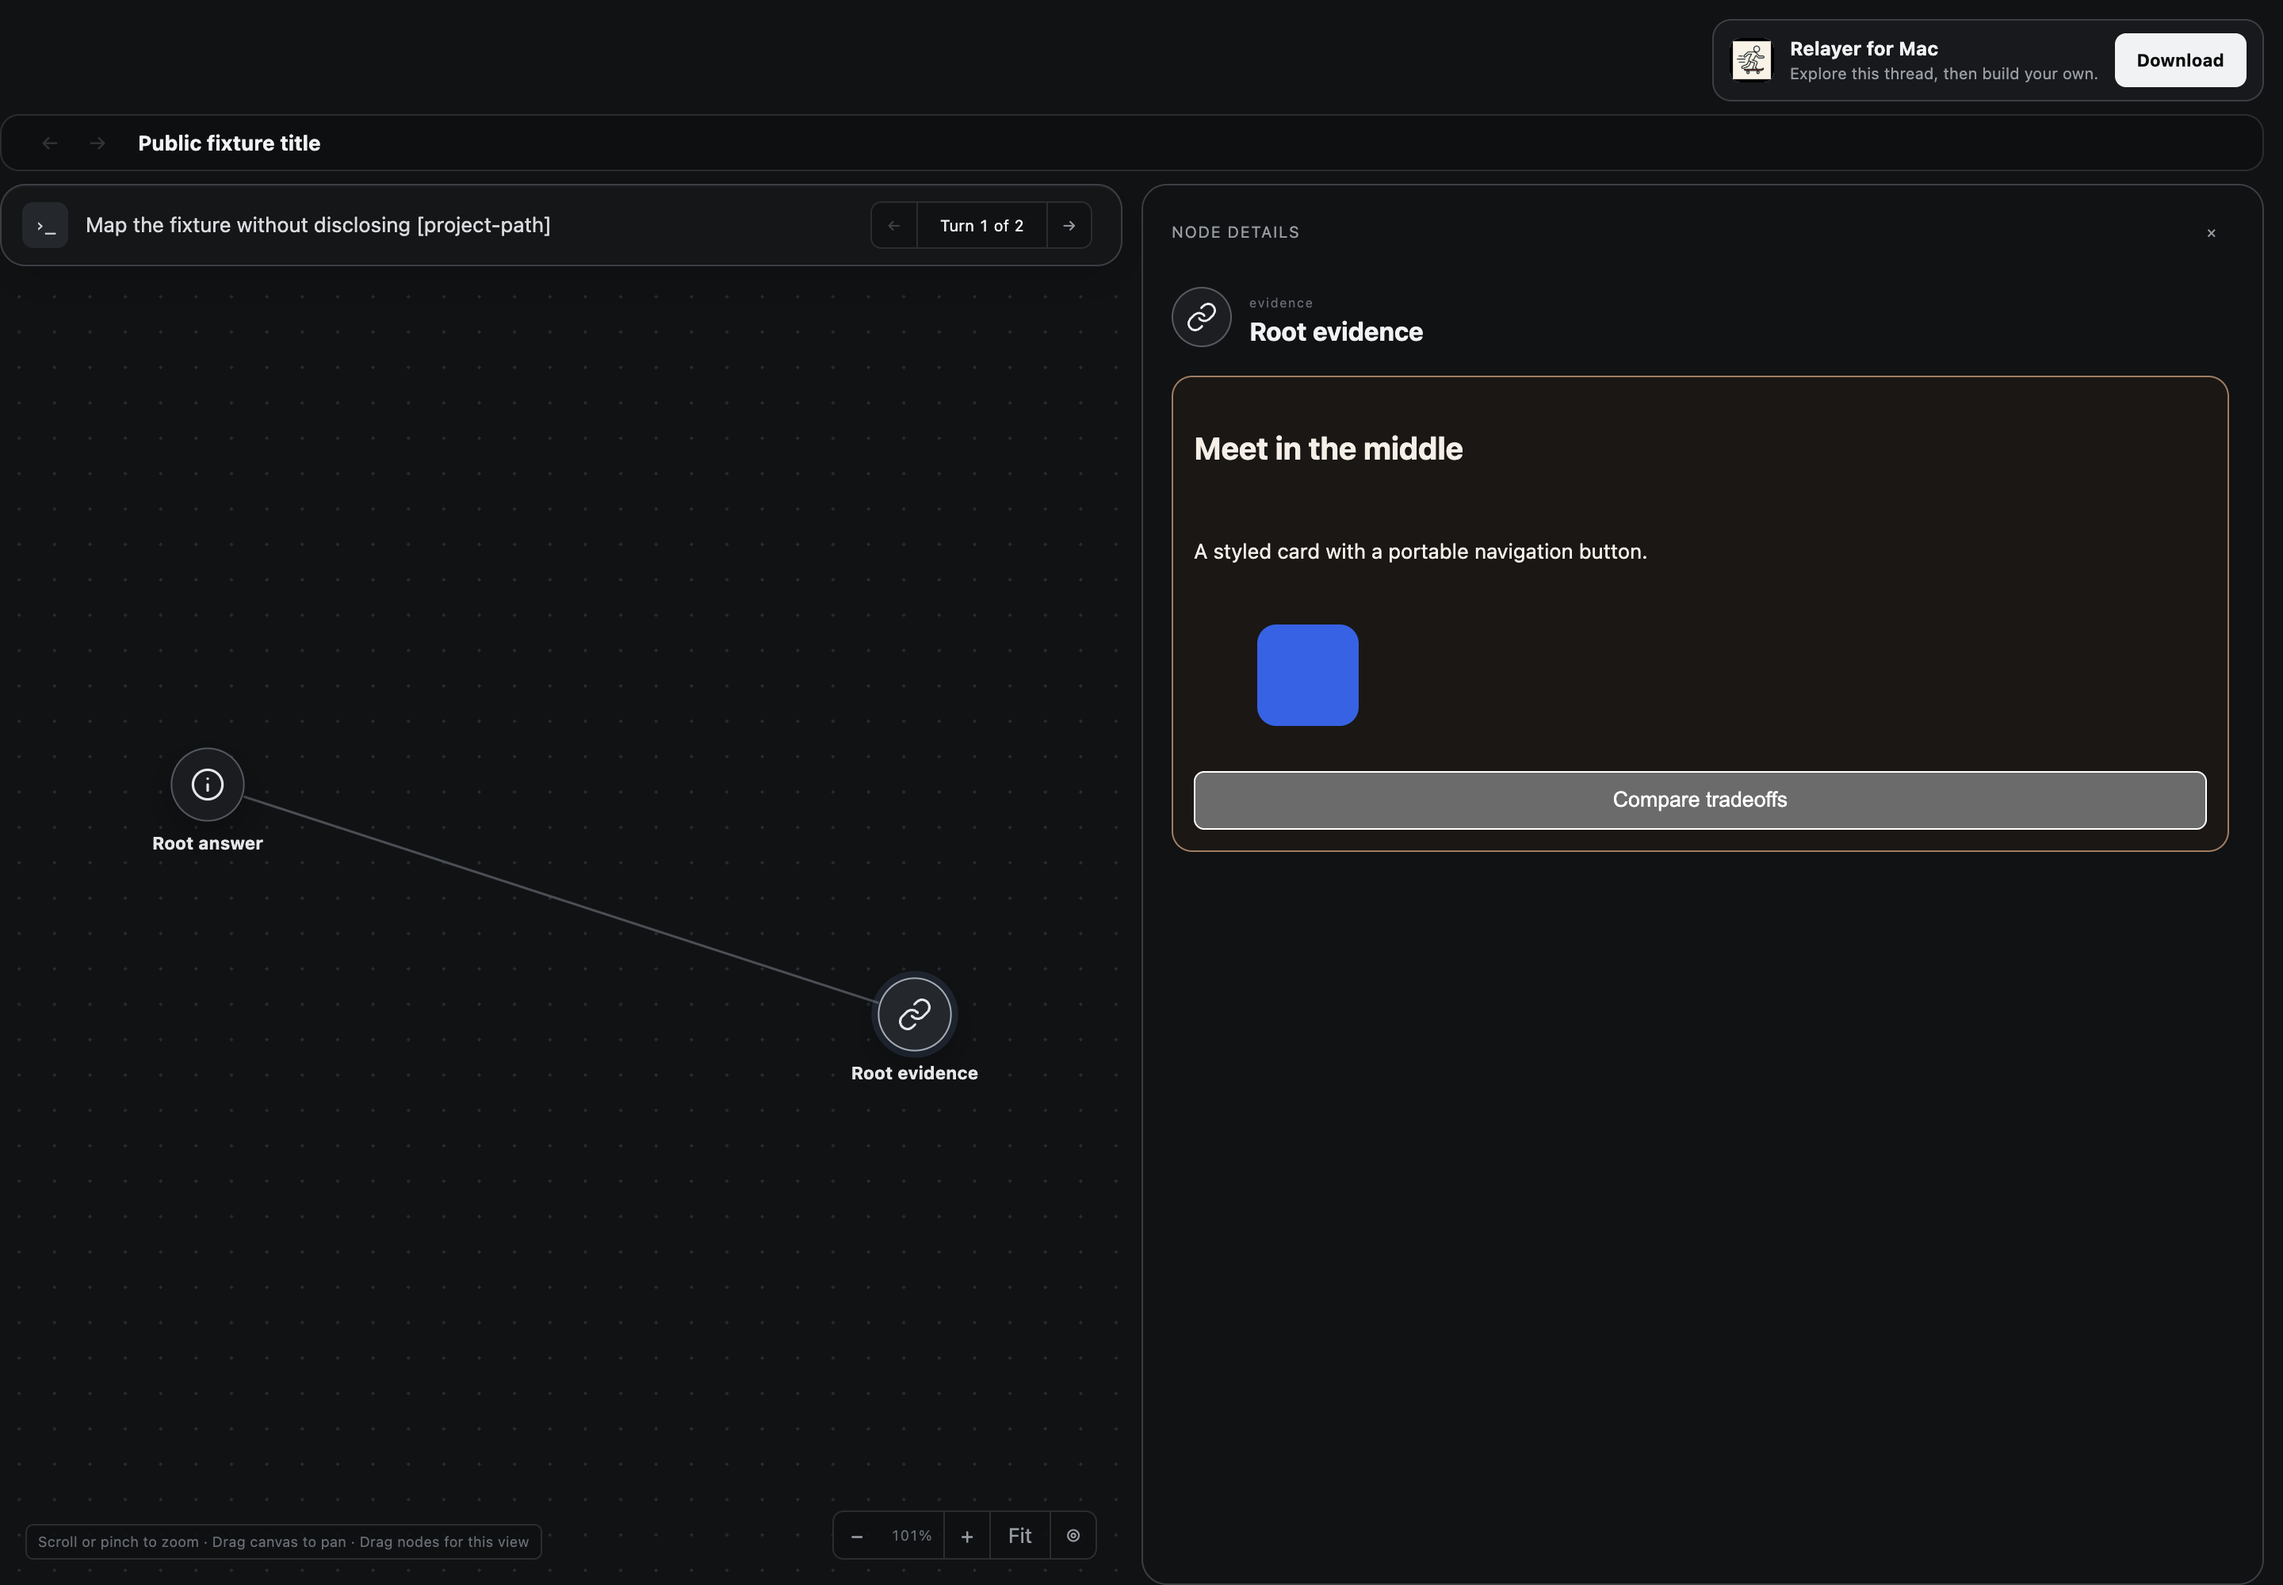
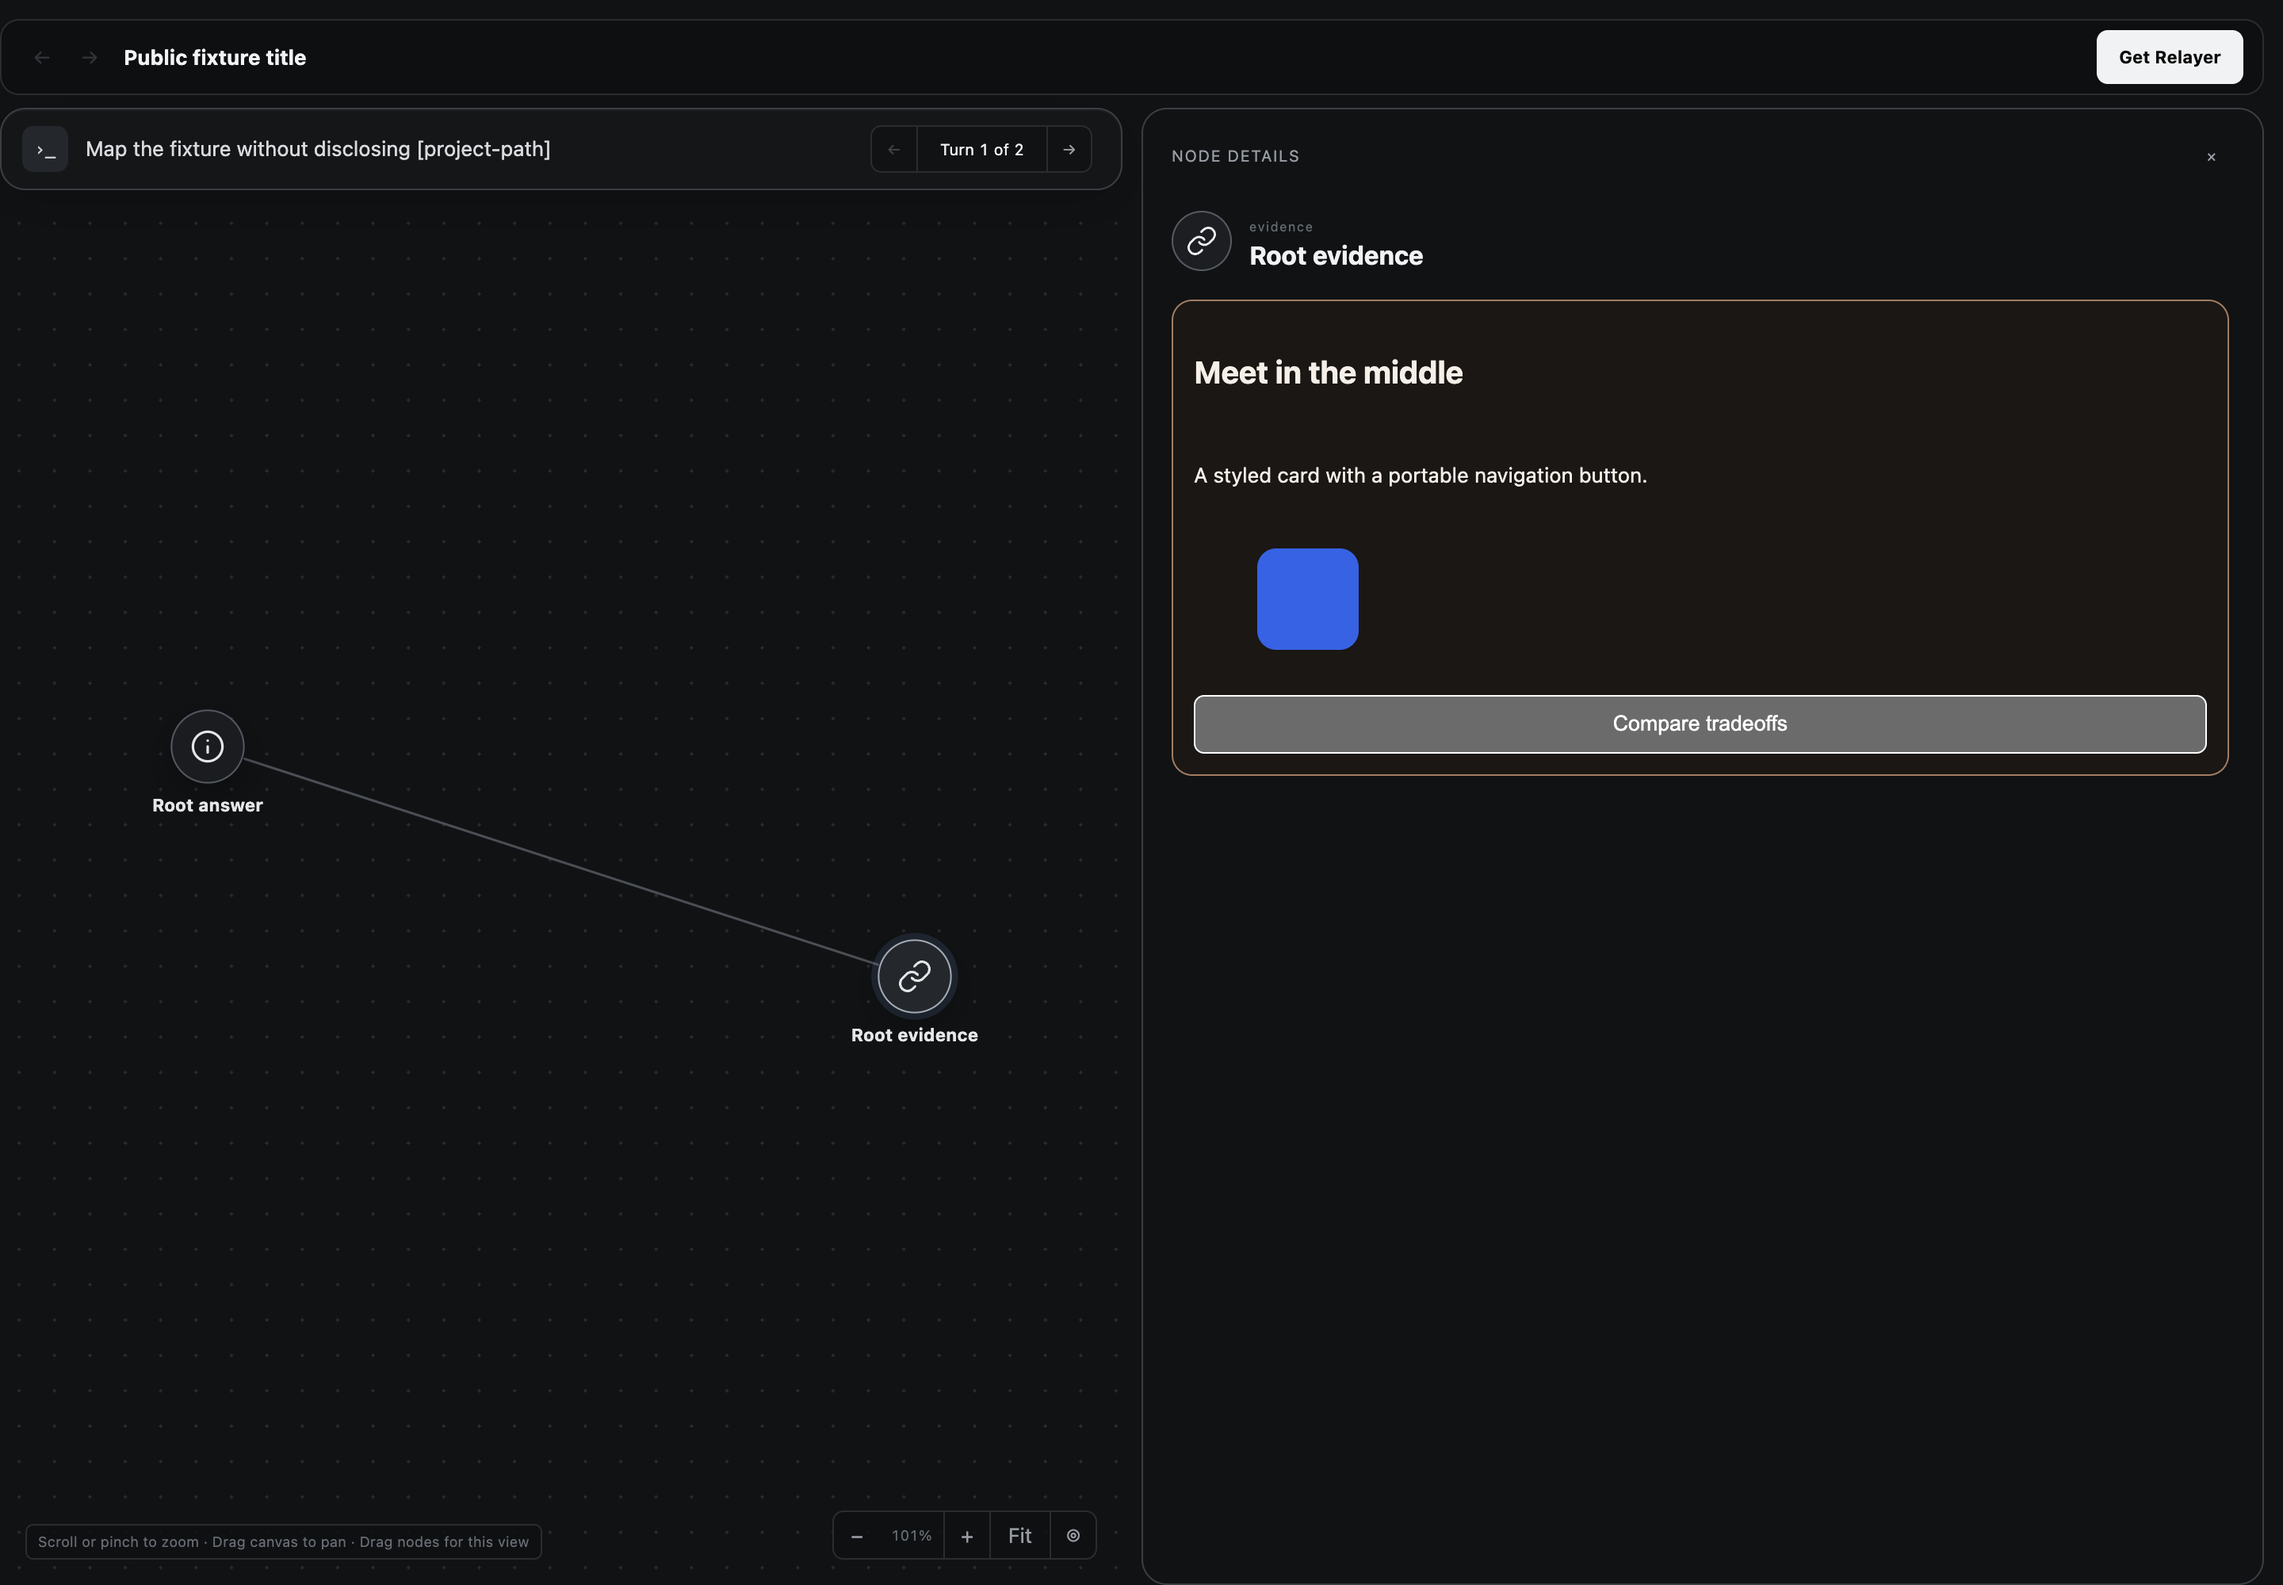
Place share install action beside title and align verification

diff --git a/docs/prd/index.html b/docs/prd/index.html
@@ -1308,8 +1308,8 @@ V1 exposes only <strong>Local checkout</strong> and <strong>New worktree</strong
 <h3>8.4 Shared thread snapshots</h3>
 <p><strong>Planned:</strong> A user can share one thread as a frozen, read-only graph. Anyone with the link can open it in a browser. Each share creates a new immutable URL.</p>
 <p>Packaged Preview and Stable releases both publish through <code>https://share.relayerlabs.ai</code>. Stable promotion reuses the exact signed Preview bytes, so the service origin does not change with promotion. Private share Preview endpoints are available only through an explicit non-packaged development override. Packaged applications ignore endpoint environment overrides and fail closed when release metadata is invalid.</p>
-<p>The page lets the production graph workspace fill the browser viewport without a separate public top bar, outer frame, or reserved footer. The compact app card is its only branding and install surface. Its rounded thread header and compact interaction card share the same column width. The public viewer does not show the desktop Environment panel. It shows turns, nodes, edges, actions, layers, and Node Details. The turn picker aligns to the interaction card. It fits up to five complete turn rows in the available viewport space before scrolling. It supports graph navigation and system theme. On mobile, the graph pans and Node Details opens. It has no sidebar, settings, onboarding, updater, or sign-in screen.</p>
-<p>The download card shows Relayer for Mac, a short pitch, and Download. It sits above Node Details and uses the product primary button style. On desktop, its bottom edge aligns with the interaction card. Its height does not add empty space between the thread header and interaction card. The install link leads to <code>app.relayerlabs.ai/desktop/login</code>.</p>
+<p>The page lets the production graph workspace fill the browser viewport without a separate public top bar, outer frame, or reserved footer. A compact Get Relayer action in the thread header is its only install surface. Its rounded thread header and compact interaction card share the same column width. The public viewer does not show the desktop Environment panel. It shows turns, nodes, edges, actions, layers, and Node Details. The turn picker aligns to the interaction card. It fits up to five complete turn rows in the available viewport space before scrolling. It supports graph navigation and system theme. On mobile, the graph pans and Node Details opens. It has no sidebar, settings, onboarding, updater, or sign-in screen.</p>
+<p>The Get Relayer action sits beside the conversation title in the same header row at desktop and mobile widths. It uses the product primary button style. It adds no separate promotional row or empty space above the content. Long titles truncate while the install action stays visible. The install link leads to <code>app.relayerlabs.ai/desktop/login</code>. The public-viewer mount test checks header ownership; public-viewer visual evidence checks the rendered layout.</p>
 <p>The thread header has a Share button beside its menu. The menu offers Share and Shared links. Imported threads cannot be shared. Only accepted records are included; pending work is excluded. A share attempt performs eligibility, quota, and size preflight before requesting a title. An ineligible or blocked thread explains the blocker immediately without collecting title input.</p>
 <p>Signed-out users see Share this thread, a read-only copy explanation, Cancel, and Sign in to share. Signed-in users skip only the sign-in step. Both flows require a share title before creating a link. The title field starts blank. Create link stays disabled for a blank or whitespace-only title.</p>
 <p>The chosen share title replaces the original title in the published snapshot, page, browser tab, and link preview. The local thread keeps its original title. The share title and project name are published unchanged. Automatic redaction still applies to conversation content. Published titles cannot be edited; changing one requires a new share.</p>

diff --git a/desktop/renderer/src/public-share-viewer/viewer.css b/desktop/renderer/src/public-share-viewer/viewer.css
@@ -22,48 +22,23 @@
 }
 
 .public-share-download-card {
-  grid-column: 2;
-  grid-row: 1;
-  display: grid;
-  grid-template-columns: minmax(0, 1fr) auto;
-  align-items: center;
-  gap: 6px 10px;
-  min-width: 0;
-  margin: 0 0 12px;
-  padding: 8px 10px;
-  border: 1px solid var(--line-strong);
-  border-radius: 12px;
-  background: var(--raised);
-}
-
-.public-share-download-copy {
-  min-width: 0;
-  display: flex;
-  align-items: center;
-  gap: 10px;
-}
-
-.public-share-download-copy img {
   flex: none;
-  border-radius: 7px;
-  background: #f7f0e5;
-}
-
-.public-share-download-copy > div {
-  min-width: 0;
+  margin-left: auto;
   display: flex;
-  flex-direction: column;
-  gap: 2px;
+  align-items: center;
 }
 
-.public-share-download-card strong {
-  font-size: 12px;
+.public-share-shell:not(.public-share-embed) .thread-header {
+  flex-wrap: nowrap;
+  min-height: 48px;
+  height: auto;
+  gap: 8px;
+  padding: 6px 12px;
 }
 
-.public-share-download-card small {
-  color: var(--muted);
-  font-size: 10px;
-  line-height: 1.35;
+.public-share-shell:not(.public-share-embed) .thread-title-group {
+  flex: 1;
+  min-width: 0;
 }
 
 .public-share-primary-action {
@@ -179,23 +154,14 @@
   font-weight: 700;
 }
 
-html[data-theme="light"] .public-share-download-card,
 html[data-theme="light"] .public-share-error {
   background: #fff;
-}
-
-@media (min-width: 1101px) {
-  .public-share-download-card {
-    z-index: 4;
-    grid-column: 2;
-    grid-row: 1 / 3;
-  }
 }
 
 @media (max-width: 1100px) {
   .public-share-shell .workspace-layout {
     grid-template-columns: minmax(0, 1fr);
-    grid-template-rows: 36px auto auto minmax(520px, 1fr);
+    grid-template-rows: auto auto minmax(520px, 1fr);
     gap: 0;
     min-width: 0;
     padding: 12px;
@@ -207,33 +173,26 @@ html[data-theme="light"] .public-share-error {
     grid-row: 1;
   }
 
-  .public-share-download-card {
-    grid-column: 1;
-    grid-row: 2;
-    margin: 8px 0 12px;
-  }
-
   .public-share-shell .interaction-banner {
     grid-column: 1;
-    grid-row: 3;
+    grid-row: 2;
     margin: 0 0 12px;
   }
 
   .public-share-shell .thread-workspace {
     grid-column: 1;
-    grid-row: 4;
+    grid-row: 3;
   }
 }
 
-/* Keep branding above the shared reading panes without occupying the divider. */
+/* Standalone branding shares the title row; reading panes start directly below. */
 @media(min-width:1101px){
- .public-share-shell .workspace-layout{grid-template-rows:auto auto auto minmax(0,1fr)}
- .public-share-shell .public-share-download-card{grid-column:1 / -1;grid-row:1;margin:0 0 8px;justify-self:end}
- .public-share-shell .thread-header{grid-column:1 / -1;grid-row:2}
- .public-share-shell .interaction-banner{grid-column:1;grid-row:3}
- .public-share-shell .graph-column{grid-column:1;grid-row:4}
- .public-share-shell .workspace-divider{grid-row:3 / 5}
- .public-share-shell .inspector{grid-column:3;grid-row:3 / 5}
+ .public-share-shell .workspace-layout{grid-template-rows:auto auto minmax(0,1fr)}
+ .public-share-shell .thread-header{grid-column:1 / -1;grid-row:1}
+ .public-share-shell .interaction-banner{grid-column:1;grid-row:2}
+ .public-share-shell .graph-column{grid-column:1;grid-row:3}
+ .public-share-shell .workspace-divider{grid-row:2 / 4}
+ .public-share-shell .inspector{grid-column:3;grid-row:2 / 4}
 }
 
 /* Embed presentation uses the same ProductWorkspace and authority boundary.

diff --git a/desktop/renderer/src/public-share-viewer/template.js b/desktop/renderer/src/public-share-viewer/template.js
@@ -138,17 +138,8 @@ export function renderPublicViewerTemplate({
     ${presentation === "embed" ? `<nav class="public-share-embed-branding" aria-label="Shared graph links">
       <span class="public-share-attribution"><img src="${logo}" alt="" width="18" height="18">Relayer</span>
       <a href="${escapeHtml(sharePath)}" target="_blank" rel="noopener noreferrer" aria-label="Open full graph (opens in a new tab)">Open full graph <span aria-hidden="true">↗</span></a>
-    </nav>` : `<aside class="public-share-download-card" aria-labelledby="publicShareDownloadTitle">
-      <div class="public-share-download-copy">
-        <img src="${logo}" alt="" width="28" height="28">
-        <div>
-          <strong id="publicShareDownloadTitle">Relayer for Mac</strong>
-          <small>Explore this thread, then build your own.</small>
-        </div>
-      </div>
-      <div class="public-share-download-actions">
-        <a class="public-share-primary-action" href="${install}" target="_blank" rel="noopener noreferrer">Download</a>
-      </div>
+    </nav>` : `<aside class="public-share-download-card" aria-label="Get Relayer">
+      <a class="public-share-primary-action" href="${install}" target="_blank" rel="noopener noreferrer">Get Relayer</a>
     </aside>`}
     <section id="publicViewerHost" class="public-share-workspace-host" aria-label="Shared conversation workspace">
       <section class="thread-view" id="threadView"></section>

diff --git a/desktop/renderer/public-share.html b/desktop/renderer/public-share.html
@@ -17,17 +17,8 @@
 </head>
 <body class="public-share-shell">
   <main class="public-share-main">
-    <aside class="public-share-download-card" aria-labelledby="publicShareDownloadTitle">
-      <div class="public-share-download-copy">
-        <img src="./assets/relayer-logo.svg" alt="" width="28" height="28">
-        <div>
-          <strong id="publicShareDownloadTitle">Relayer for Mac</strong>
-          <small>Explore this thread, then build your own.</small>
-        </div>
-      </div>
-      <div class="public-share-download-actions">
-        <a class="public-share-primary-action" href="https://app.relayerlabs.ai/desktop/login" target="_blank" rel="noopener noreferrer">Download</a>
-      </div>
+    <aside class="public-share-download-card" aria-label="Get Relayer">
+      <a class="public-share-primary-action" href="https://app.relayerlabs.ai/desktop/login" target="_blank" rel="noopener noreferrer">Get Relayer</a>
     </aside>
     <section id="publicViewerHost" class="public-share-workspace-host" aria-label="Shared conversation workspace">
       <section class="thread-view" id="threadView"></section>

diff --git a/desktop/renderer/src/public-share-viewer/main.js b/desktop/renderer/src/public-share-viewer/main.js
@@ -226,7 +226,7 @@ export function bootPublicViewer({
       throw new Error("Public viewer branding host is missing.");
     }
     workspaceLayout.querySelector(".environment-panel")?.remove();
-    if (!embedded) workspaceLayout.append(downloadCard);
+    if (!embedded) workspaceLayout.querySelector(".thread-header").append(downloadCard);
     if (embedded) {
       stopEmbedLayout = observeEmbedInspectorLayout(host, windowRef);
       stopEmbedReading = configureEmbedReading(host);
